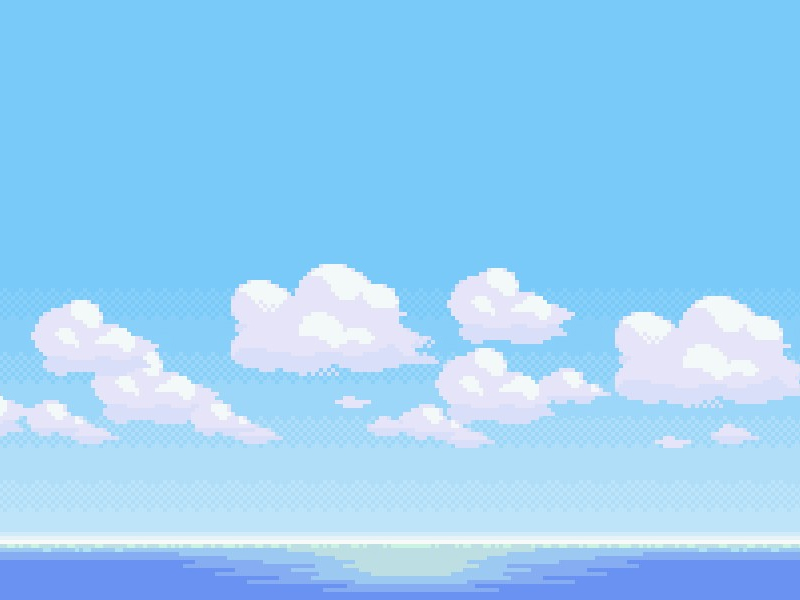
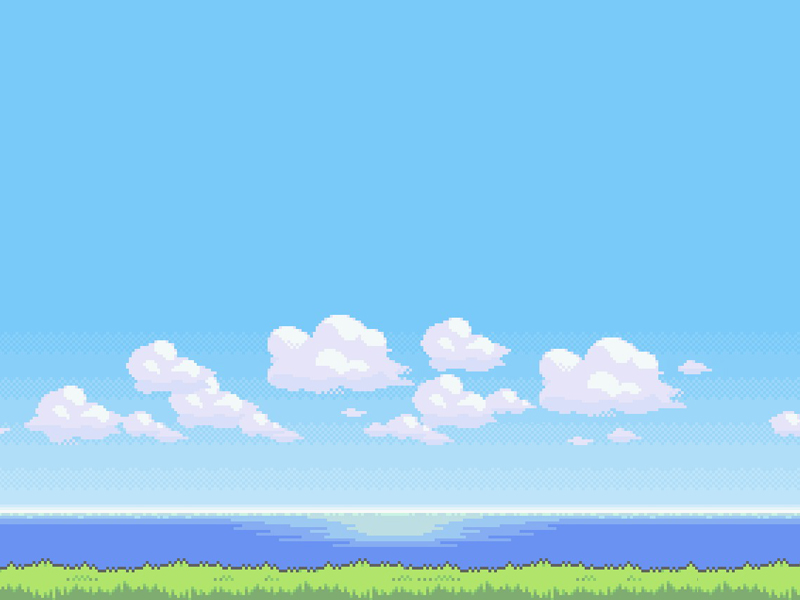
gameplay and graphics improvements #2
- Changed Background image on main window;
- Added cooldown to Dart before can shoot again;
- Deleted "Balloon.png" from resources ( not used anymore );

Changed region(s): [[0.0, 0.42, 1.0, 0.75], [0.0, 0.84, 1.0, 1.0]]

diff --git a/qml/qml-balloon-game/main.qml b/qml/qml-balloon-game/main.qml
@@ -50,11 +50,12 @@ Rectangle {
     }
 
     // Dart animations
-    Timer { id: goUp; repeat: true; interval: 15; onTriggered: { dart.y -= 4; } }
-    Timer { id: goDown; repeat: true; interval: 15; onTriggered: { dart.y += 4; } }
-    PropertyAnimation { id: fire; target: dart; property: "x"; duration: 1300; to: game.width; onCompleted: { dart.x = 0; } }
+    Timer { id: coolDown; interval: 800; onTriggered: { dart.x = 0 } }
+    Timer { id: goUp; repeat: true; interval: 12; onTriggered: { dart.y -= 5; } }
+    Timer { id: goDown; repeat: true; interval: 12; onTriggered: { dart.y += 5; } }
+    PropertyAnimation { id: fire; target: dart; property: "x"; duration: 1300; to: game.width; onCompleted: { coolDown.start(); } }
 
-    Timer { repeat: true; interval: 80; running: true; onTriggered: GameLogic.collisionDetect() }
+    Timer { repeat: true; interval: 100; running: true; onTriggered: GameLogic.collisionDetect() }
 
     Keys.onReleased: {
         if (event.key == Qt.Key_Up) {
@@ -79,12 +80,9 @@ Rectangle {
         id: scoreBar
         width: parent.width; height: 40
         anchors.top: game.top
-        z: 9999;
+        z: 5
         color: "transparent"
-        /*gradient: Gradient {
-                GradientStop { position: 0.0; color: "#bddee3" }
-                GradientStop { position: 1.0; color: "#6a92f2" }
-            }*/
+
 
         Text {
             id: scoreText
